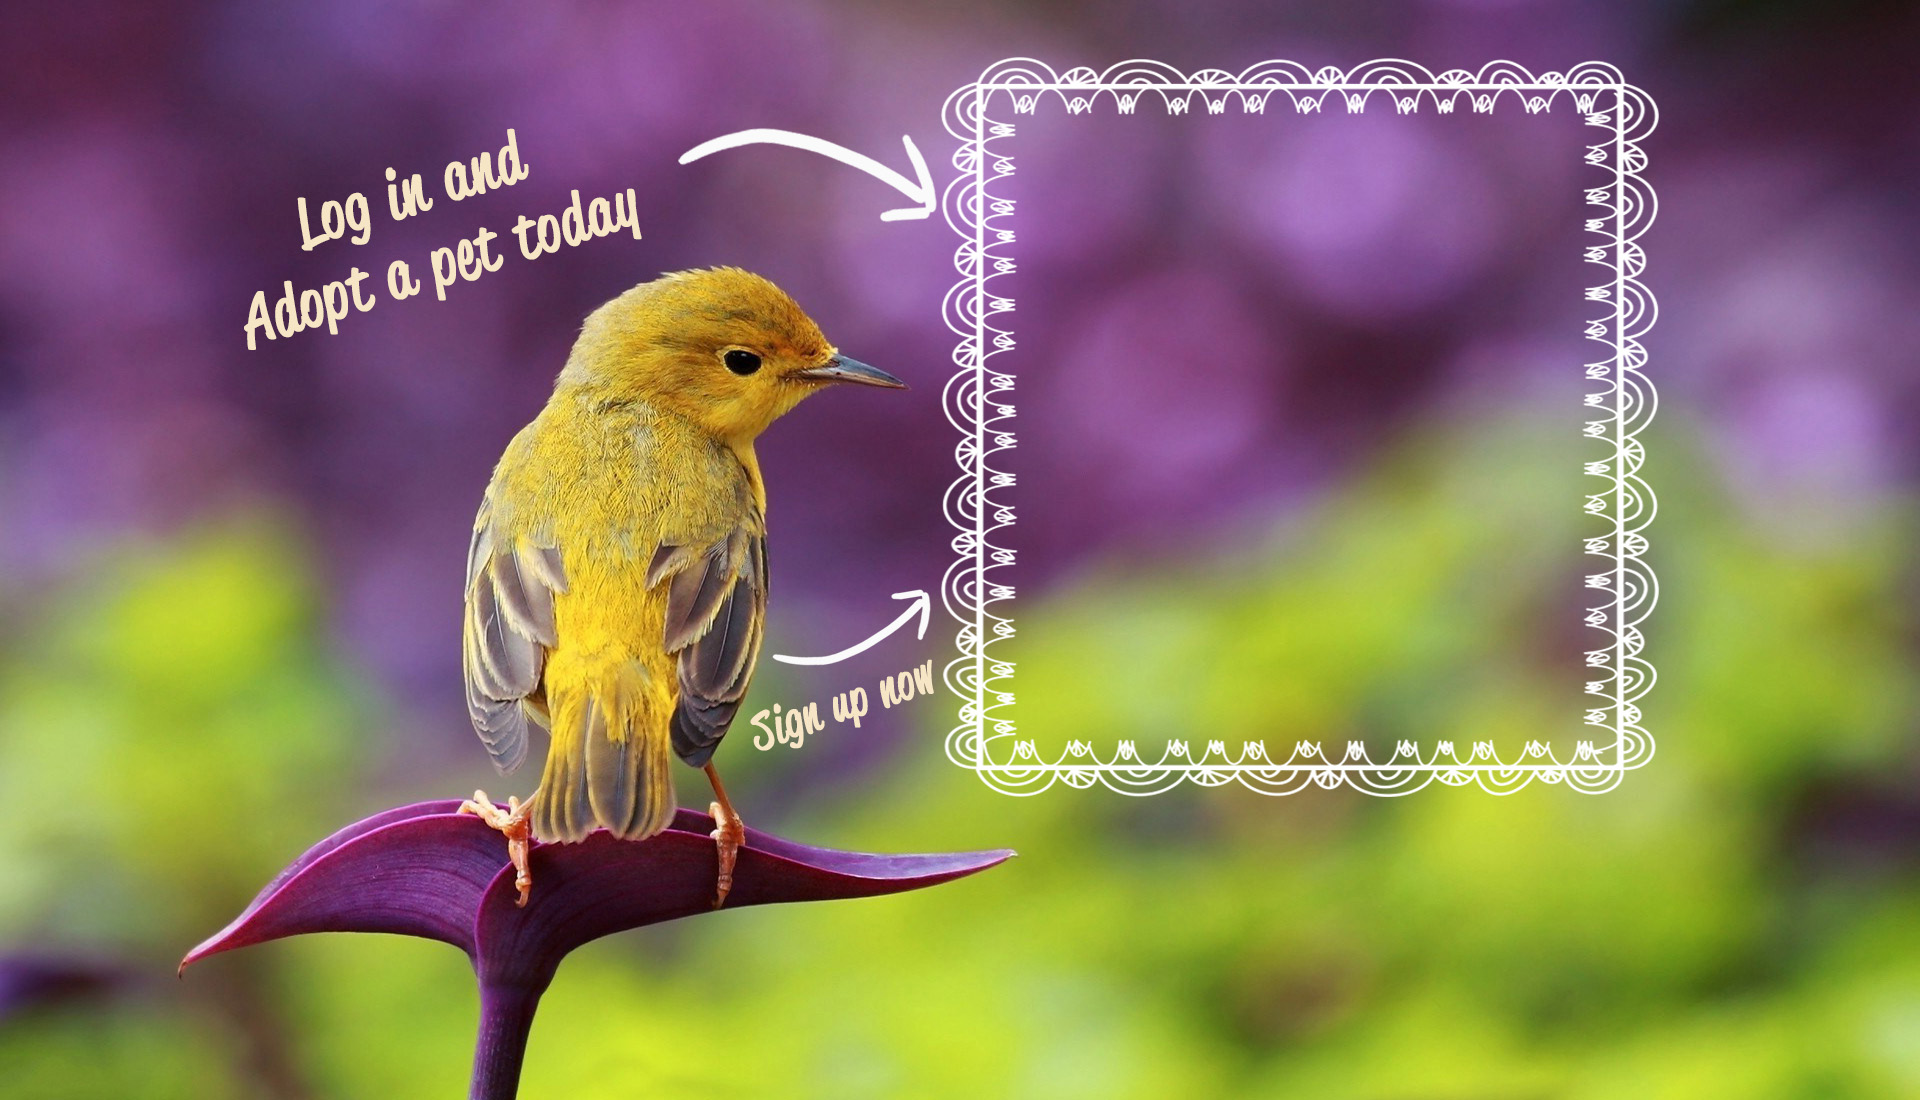
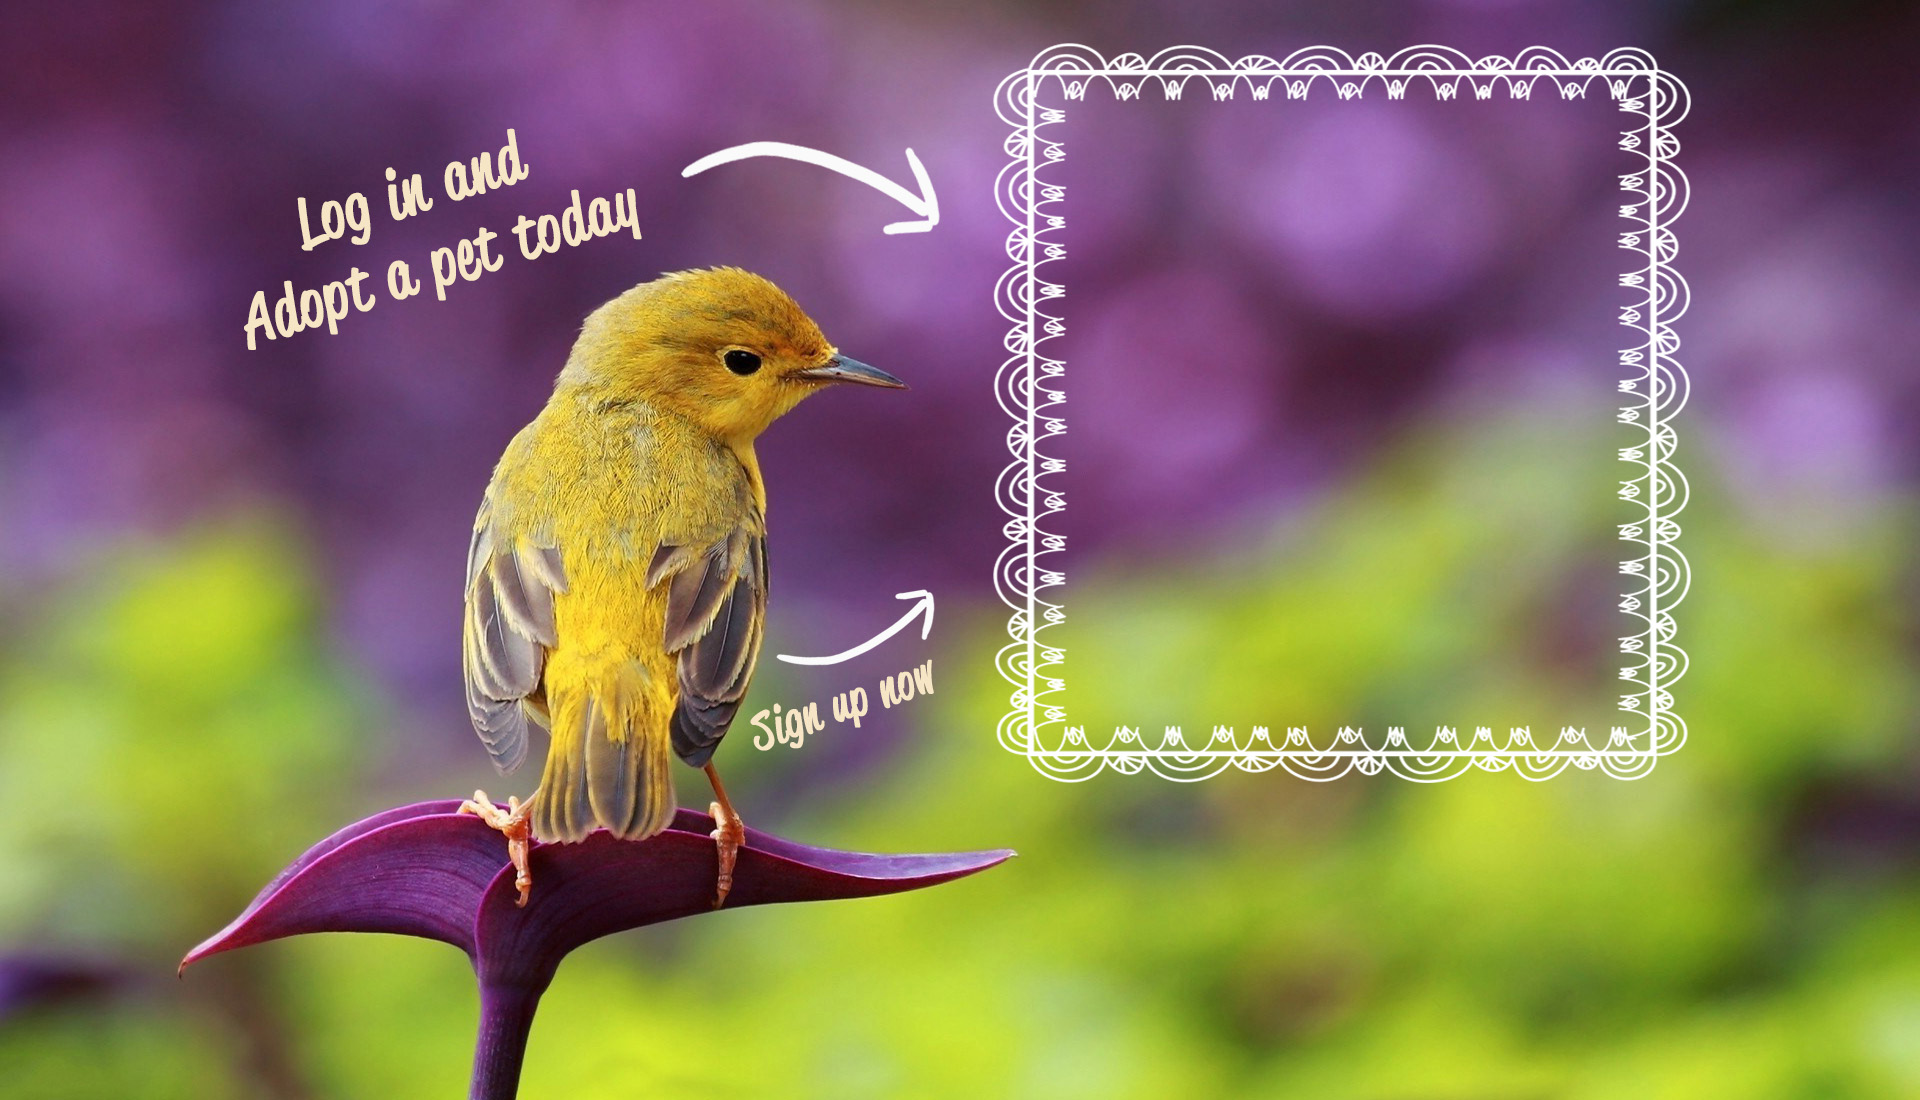
Modified home page

Changed region(s): [[0.3438, 0.0309, 0.875, 0.7418]]

diff --git a/assets/css/peternity.css b/assets/css/peternity.css
@@ -21,8 +21,7 @@
 	.margin{margin-left: 120px;}
 	.marginleft{margin-left: 120px;}
 	.margintop{margin-top: 20px;}
-	.marginbottom{margin-top: 20px;}
-	.marginbottom{margin-bottom: 10px;}
+	.marginbottom{margin-bottom: 20px;}
 	.shadow{box-shadow: 10px 10px 50px #2B2C2C; }
 	.login{margin-left: 75px; color: black;}
 	.gap{text-align: left; padding: 0px 0px 0px 300px;}
@@ -49,10 +48,22 @@
 	.picstory{margin-left: 100px; }
 	.usermarg{margin-left: 210px;}
 	.dropdown-menu a:hover {background-color: }
-	.dropdown:hover .dropdown-menu {
-    display: block;
-}
-	
+	.dropdown:hover .dropdown-menu {display: block;}
+	.spacing{margin-left: 120px;}
+	.white{color: white;}
+	.re{border-radius: 30px;}
+	.panel-default1{background-color: #FAD332;}
+	.fixed-bg {
+    background-image: url('../images/petbg2.jpg');
+    min-height: 500px;
+    min-width: 750px;
+	border-radius: 40px;
+    background-attachment: fixed;
+    background-position: center;
+    background-repeat: no-repeat;
+    background-size: cover;}
+							
+	#textmargin{margin-left: 135px;}
 	panel{margin-left: 600px; margin-right: 600px;}
 	button{margin:auto;}
 	h3, h5, label, th{font-family: Verdana;}

diff --git a/application/views/home.php b/application/views/home.php
@@ -69,6 +69,42 @@
      
   </div>
   </div>
+ <div class="container fixed-bg margintop"> 
+ 
+		 <div class="container margintop">
+			<h2 class="heading white" id="textmargin">-FEATURED PETS-</h2>
+			  <div class="panel panel-default1 col-xs-5 re">
+			  <img src="<?php echo base_url('assets/images/bird1.jpg')?>" class="img img-responsive img-circle margintop marginbottom float" alt="featured pet 1" style="width: 100px; height:100px;"/>
+			  <h4 class="heading margintop spacing"> SERENE</h4>
+			  <h5 class="sm spacing"> Serene is a baby parakeet; She was rescued from an abandoned shelter and now recovered from the traumatic experience. She now enjoys singing especially in the morning. She became a very active parakeet.</h5>
+			  </div>
+			</div>
+			<div class="container">
+			  <div class="panel  panel-default1 col-xs-5 re">
+			  <img src="<?php echo base_url('assets/images/hamster.jpg')?>" class="img img-responsive img-circle margintop marginbottom float" alt="featured pet 1" style="width: 100px; height:100px;"/>
+			  <h4 class="heading margintop spacing"> VLADIMIR</h4>
+			  <h5 class="sm spacing"> Serene is a baby parakeet; She was rescued from an abandoned shelter and now recovered from the traumatic experience. She now enjoys singing especially in the morning. She became a very active parakeet.</h5>
+			  </div>
+			  </div>
+			  
+			  <div class="container">
+			  <div class="panel panel-default1 col-xs-5 re">
+			  <img src="<?php echo base_url('assets/images/hh.jpg')?>" class="img img-responsive img-circle margintop  marginbottom float" alt="featured pet 1" style="width: 100px; height:100px;"/>
+			 <h4 class="heading margintop spacing"> TORCH</h4>
+			  <h5 class="sm spacing"> Serene is a baby parakeet; She was rescued from an abandoned shelter and now recovered from the traumatic experience. She now enjoys singing especially in the morning. She became a very active parakeet.</h5>
+			  </div>
+			  </div>
+</div>
+
+  
+  
+  
+  
+  </div>
+  
+
+     
+  
 
 	
 	

diff --git a/application/views/include/footer.php b/application/views/include/footer.php
@@ -1,4 +1,8 @@
 <footer class="container text-left footer">
+<script src="https://ajax.googleapis.com/ajax/libs/jquery/2.1.3/jquery.min.js"></script>
+<script type="text/javascript" src="http://arrow.scrolltotop.com/arrow84.js"></script>
+<noscript>Not seeing a <a href="http://www.scrolltotop.com/">Scroll to Top Button</a>? Go to our FAQ page for more info.</noscript>
+
 <hr>
   <p class="col-sm-9 sm">All Rights Reserved &copy 2017</p> 
   <p class="col-sm-1 text-right"><a class="sm" href="#">Contacts </a></p>
